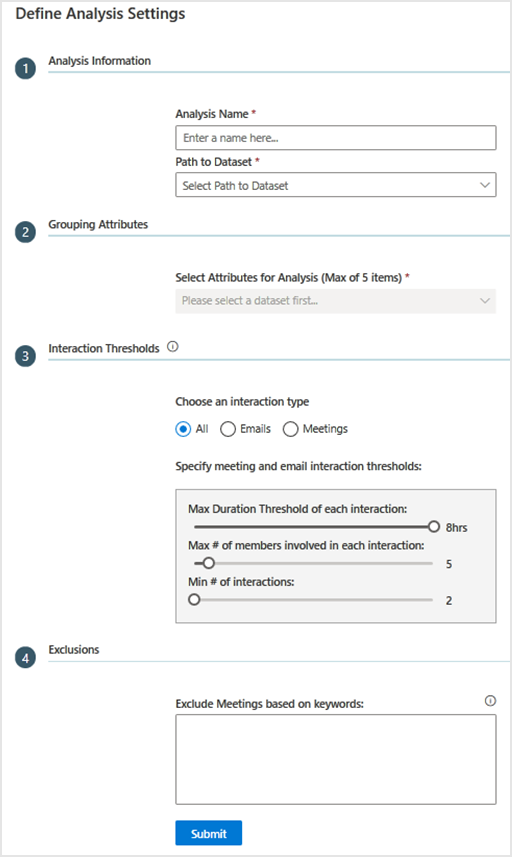
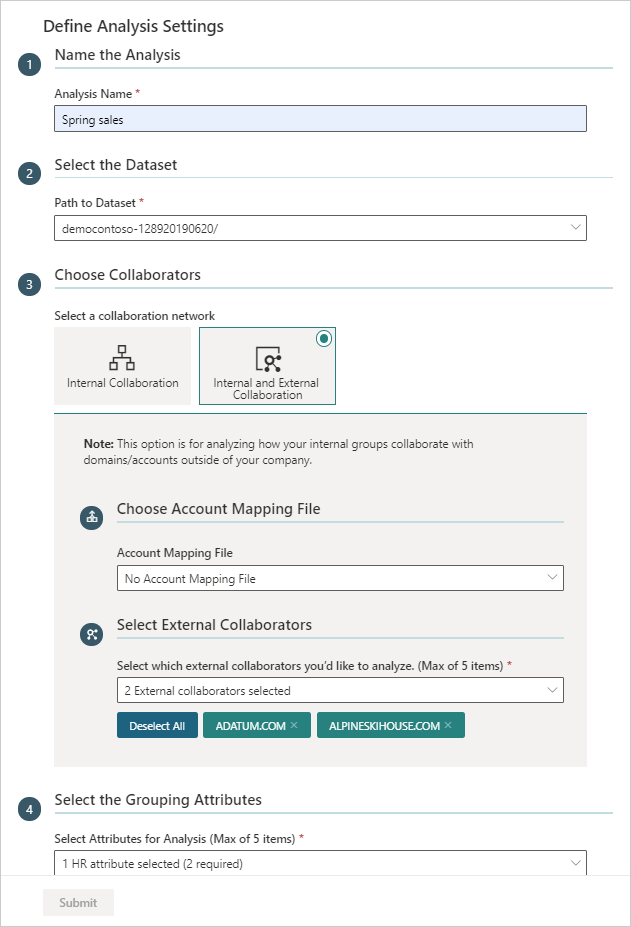
ONA AzT edits
for Dec release

diff --git a/WorkplaceAnalytics/azure-templates/organization-network-analysis.md b/WorkplaceAnalytics/azure-templates/organization-network-analysis.md
@@ -18,9 +18,9 @@ audience: Admin
 
 _This template only available as part of a Microsoft service engagement._
 
-Workplace Analytics Azure Templates include the Organizational Network Analysis template that enables you to visualize connections within your organization, pinpoint collaboration patterns, and drive change.
+Workplace Analytics Azure Templates include the Organizational Network Analysis (ONA) Template that enables you to visualize connections within your organization, pinpoint internal and external collaboration patterns, and drive change.
 
-Workplace Analytics has a variety of measures to help you visualize and analyze formal and informal relationships within your organization. This analysis can help you shape a business strategy that improves communication, making your business more effective and sustainable.
+Workplace Analytics has a variety of measures to help you visualize and analyze formal and informal relationships within your organization. You can also analyze how your internal organization collaborates with external accounts or people outside your company. This ONA analysis can help you shape a business strategy that improves communication, making your business more effective and sustainable.
 
 To focus your analysis on specific subgroups or compare graphs from different time ranges or between different groups, you can create subgroup datasets and graphs within the selected (parent) dataset. For details, see  [To add new subgroup analysis](#to-add-new-subgroup-analysis).
 
@@ -29,39 +29,55 @@ To focus your analysis on specific subgroups or compare graphs from different ti
 1. In Workplace Analytics Azure Templates, select **Organizational Network Analysis**.
 2. On the **Organizational Network Analysis** page, select **Add New Dataset** at top right.
 3. In **Define Analysis Settings**, enter a name and select a path to the dataset.
-4. In **Select the Grouping Attributes**, select the attributes you want to analyze in the graph. The available attributes match up to the HR attributes included in the imported [organizational data](../setup/prepare-organizational-data.md#attribute-reference) from Workplace Analytics.
-5. In **Specify the Interaction Types and Thresholds**, select the following.
+4. In **Choose Collaborators**, select one of the following:
+
+   * **Internal Collaboration** - All internal collaboration activity as specified for this analysis.
+   * **Internal and External Collaboration** - Analyzes interactions with specified external domains or accounts in addition to analyzing internal collaboration activity.
+
+   ![Add a new ONA dataset](./images/ona-new-dataset.png)
+
+5. For internal collaboration only skip to the next step. For external collaboration, you can specify an [Account Mapping File](deploy-configure.md#account-mapping) if you want to select accounts by their names instead of their domains. Then in **Select External Collaborators**, select up to five accounts to include in this analysis.
+6. In **Select the Grouping Attributes**, select the attributes you want to analyze in the graph. The available attributes match up to the HR attributes included in the imported [organizational data](../setup/prepare-organizational-data.md#attribute-reference) from Workplace Analytics.
+7. In **Specify the Interaction Types and Thresholds**, select the following:
 
    * **Choose the interaction type(s)** - Select what to analyze in the dataset, independently or in combination, including emails, meetings, Teams chats, and Teams calls. Note that if you include meetings and Teams calls in your analysis, only unscheduled Team calls are counted to avoid double counting meeting call activity.
    * **Max number of people involved in each interaction** - Select the maximum number of people involved in each interaction.
+   * **Minimum number of unique interaction types** - Select the minimum number of interaction types that indicate a meaningful interaction.
    * **Maximum duration of a meeting or call** - Select the maximum number of interactions between the selected groups or people.
-   * **Advanced Settings** - Select to turn it **On** if you want to specify thresholds for interactions, such as a minimum number of emails, meetings, chats, calls, and interactions across two or more types.
+   * **Advanced Settings** - Select to turn it **On** if you want to specify individual interaction thresholds that define a meaningful connection, such as a minimum number of emails, meetings, chats, calls, and interactions across two or more types.
 
    >[!Important]
    >When analyzing calls or chats, you'll only see data from the time period where all signals exist. For example, if you select meetings and calls to analyze and 13 months of meeting data is available, but only three months of Teams data is available, you'd only see data for the three months that include both meetings and calls.
 
-6. Optionally, in **Enter any Exclusions**, enter one or more terms separated by a comma to exclude meetings with these keywords in the meeting subject line from this analysis. See [meeting exclusion rules](../tutorials/meeting-exclusions-intro.md) to learn more about them.
-7. Select **Submit**. Based on the data size, it might take anywhere from a few minutes up to a few hours to successfully create the dataset.
-8. After the analysis successfully loads, select the dataset from the list, and then select **Preliminary analysis**, which the template creates by default as a starting dataset.
-9. In **Define Graph Settings**, select what HR attribute to use for the combined or grouped view and for the color of the graph's nodes. You can also select one or more filters to further focus the graph view and then select **Render Graph**.
+8. Optionally, in **Enter any Exclusions**, enter one or more terms separated by a comma to exclude meetings with these keywords in the meeting subject line from this analysis. See [meeting exclusion rules](../tutorials/meeting-exclusions-intro.md) to learn more about them.
+9. Select **Submit**. Based on the data size, it might take anywhere from a few minutes up to a few hours to successfully create the dataset.
 
-   ![Add New Analysis](./images/ona-define-graph-settings.png)
+## To add new analysis
+
+1. After the dataset successfully loads, select it from the list, and then select **Preliminary analysis**, which the template creates by default as a starting dataset.
+2. In **Define Graph Settings** > **Choose Attribute to Group By**, select what HR attribute to use for the combined or grouped view. Optionally, you can select **On** for  **Advanced Mode** and select an **IF**/**ELSE** for selecting how to color the specified group nodes in the graph.
+
+   ![Add New Analysis](./images/ona-new-graph.png)
+
+3. In **Chose Attribute to Color By**, select what HR attribute you want that represents the node colors in the graph. Optionally, you can select **On** for  **Advanced Mode** and select an **IF**/**ELSE** for grouping attributes in the graph.
 
     >[!Note]
     >You must select two or more HR attributes to analyze, so you have an attribute to "combine by" and one to "color by" for the graph.
 
-10. The graph is shown in the combined or grouped view by default based on what you selected in the previous step.
+4. Optionally in **Filter Options**, you can select one or more filters to further focus the graph view.
+5. Select **Render Graph**.
+6. The graph is shown in the combined or grouped view by default based on what you selected in the previous step.
 
     >[!Note]
     >When the node or link count exceeds the maximum threshold defined by your Azure Templates admin, the individual network view options will be unavailable. To enable these network view options, you can use filters to reduce the graph's node or link count.
 
-11. To save the current graph for future analysis, select **Save**, enter a name, and then select **Save Graph**.
+7. To save the current graph for future analysis, select **Save**, enter a name, and then select **Save Graph**.
 
 ## To view graphs
 
-1. After the analysis successfully loads (green check mark), select it from the list, and then:
+1. After analysis successfully loads (green check mark), select it from the list, and then:
 
-   * For new graphs, select **Preliminary Analysis** and in **Define Graph Settings**, select what HR attribute to use for the combined or grouped view and for the color of the graph's nodes. You can select one or more filters, and then select **Render Graph**.
+   * For new graphs, follow the previous steps [to add new analysis](#to-add-new-analysis).
    * For previously saved graphs, select the **Load Saved Graph** icon associated with the analysis, and then select it from the list.
 
    >[!Note]
@@ -83,7 +99,7 @@ To focus your analysis on specific subgroups or compare graphs from different ti
    ![ONA change settings](./images/ona-settings.png) | Change Settings |Select if the link lines scale the thickness or color darkness based on total time spent between groups. You can also use this to turn tool tips on or off. For some views, you can also select to turn on or off node titles.|
    ![ONA filter](./images/ona-filter-icon.png) | Filter by HR attributes |Changes the filters that show in the rendered graph. This doesn't change the dataset filters or recalculate the dataset metrics. If you want to calculate new metrics for a subset, you must create a new subset of the dataset.|
    ![ONA download table](./images/ona-table-icon.png) | Download as Table |Choose to download the data shown in the graph as a table (.csv file).|
-   ![ONA save graph](./images/ona-save.png) | Save Graph |Choose to save this graph as shown to load and view later.|
+   ![ONA save graph](./images/ona-save.png) | Save graph |Choose to save this graph as shown to load and view later.|
    ![ONA recompute](./images/ona-recompute-icon.png) | Recompute Metrics |This only appears if the analysis is filtered by HR attributes. Choose to create new subgroup analysis that recalculates the data values with the applied filters. For more details, see [To add subgroup analysis](#to-add-new-subgroup-analysis).|
 
 ## To add new subgroup analysis
